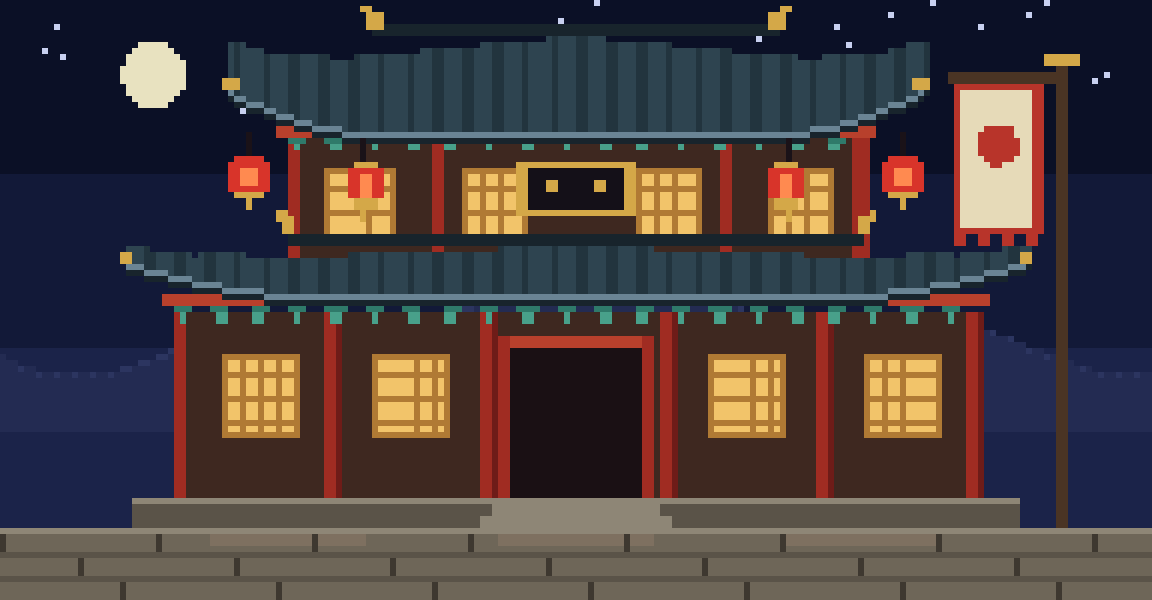
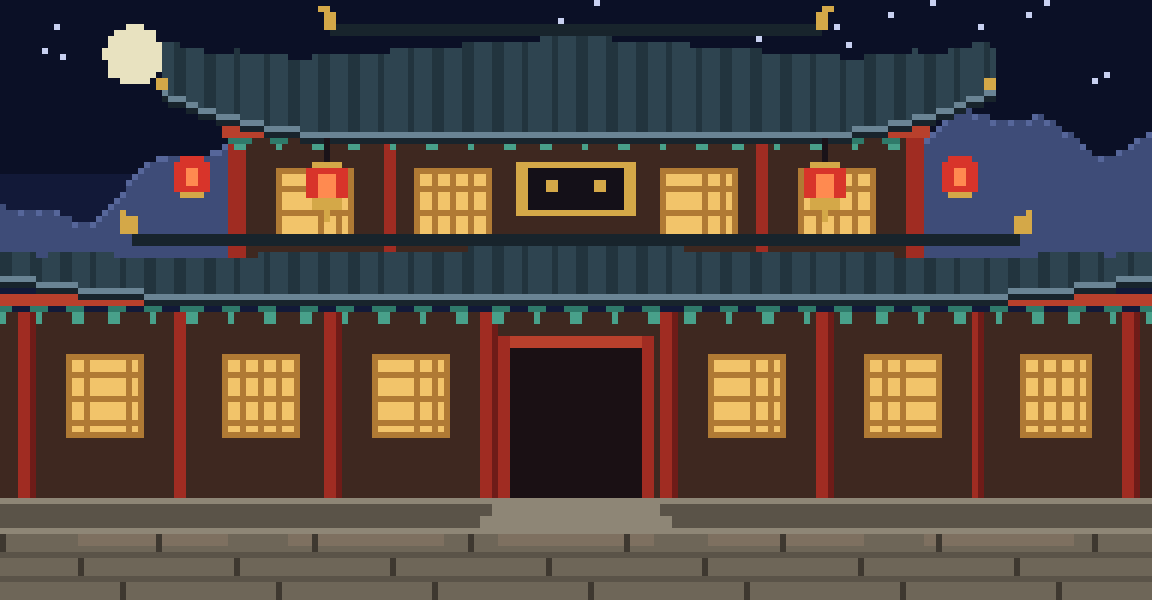
Inn stage: full-width hall, central upper pavilion, visible moonlit mountains, no flag

diff --git a/tools/gen_stages.py b/tools/gen_stages.py
@@ -280,12 +280,12 @@ def floor_dirt(s):
 
 
 def inn(W, H):
-    """Wuxia inn (kezhan) at night: double sweeping roofs, red pillars, wine flag, lanterns under the eaves."""
+    """Wuxia inn (kezhan) at night, seen up close: wide hall, central upper pavilion, lanterns under the eaves."""
     import random
     rnd = random.Random(3)
     s = Stage(W, H, {
         "0": "0B1026", "1": "121938", "2": "1B2349", "*": "C8D0F0", "m": "E8E2C0",
-        "M": "232B52", "N": "2C3560",                                         # distant mountains
+        "M": "3E4C78", "N": "56669A",                                         # distant mountains (lit by the moon)
         "r": "2E4450", "R": "22343E", "x": "6A8494", "z": "18242C",           # roof tiles / grooves / eave edge / ridge
         "g": "D4A848",                                                        # gold ornaments
         "p": "A02C22", "P": "6E1C18", "b": "B8402C",                          # red pillars / shadow / beams
@@ -294,14 +294,13 @@ def inn(W, H):
         "o": "1A1014",                                                        # doorway
         "h": "141018",                                                        # plaque
         "l": "D8342A", "L": "FF8A50", "t": "1A1218",                          # lanterns / glow / cord
-        "f": "E6DAB8", "F": "B8342A", "k": "4A3424",                          # wine flag cloth / border / pole
         "s": "6E6658", "S": "5A5348", "e": "8E8676", "d": "3E3830", "u": "7E7060",   # stone
     })
     s.sky("012", 0, s.ground)
     for _ in range(36):
         s.put(rnd.randrange(W), rnd.randrange(s.Y(14)), "*")
-    s.disc(16, 8, 3.5, "m")
-    s.ridge("M", "N", 34, [(4, 0.06, 1.0), (2, 0.17, 0.3)], bottom=s.Y(46))
+    s.disc(14, 6, 3.2, "m")
+    s.ridge("M", "N", 17, [(4, 0.09, 1.0), (2.5, 0.23, 0.3), (1, 0.6, 2.0)], bottom=s.Y(30))
 
     cx = 60
     def roof(half, top, height, overhang, lift):
@@ -349,36 +348,36 @@ def inn(W, H):
             k += 2.4
 
     # ---- upper storey
-    s.rect(cx - 30, 15, 60, 13, "w")
-    for px in (-30, -15, 15, 29):
+    s.rect(cx - 36, 15, 72, 13, "w")
+    for px in (-36, -20, 18.6, 34.6):
         s.rect(cx + px, 15, 1.4, 13, "p")
-    for wx in (-26, -12, 6, 20):
-        lattice(cx + wx, 18, 7, 8)
+    for wx in (-31, -17, 9, 23):
+        lattice(cx + wx, 18, 8, 8)
     s.rect(cx - 6, 17, 12, 6, "g")                            # plaque
     s.rect(cx - 5.2, 17.8, 10.4, 4.4, "h")
     s.rect(cx - 3.2, 19.4, 1.4, 1.2, "g"); s.rect(cx + 1.8, 19.4, 1.4, 1.2, "g")
-    brackets(cx - 31, cx + 31, 13.5)
-    roof(28, 4, 10, 8, 4.5)
+    brackets(cx - 37, cx + 37, 13.5)
+    roof(34, 4, 10, 9, 4.5)
     # ---- lower storey (taller, wider)
-    s.rect(cx - 42, 33, 84, DGROUND - 33 - 3, "w")
-    for px in (-42, -26, -10, 9, 25, 40.6):
+    s.rect(-2, 33, DW + 4, DGROUND - 33 - 3, "w")
+    for px in (-58, -42, -26, -10, 9, 25, 41, 57):
         s.rect(cx + px, 33, 1.6, DGROUND - 36, "p")
         s.rect(cx + px + 1.1, 33, 0.5, DGROUND - 36, "P")
-    for wx in (-37, -21, 14, 30):
+    for wx in (-53, -37, -21, 14, 30, 46):
         lattice(cx + wx, 38, 8, 9)
     s.rect(cx - 7, 37, 14, DGROUND - 40, "o")                 # doorway
     s.rect(cx - 8, 36, 16, 1.2, "b")
     s.rect(cx - 8, 36, 1.2, DGROUND - 39, "p"); s.rect(cx + 6.8, 36, 1.2, DGROUND - 39, "p")
-    brackets(cx - 43, cx + 43, 31.5)
-    roof(40, 26, 5.5, 7, 3.5)
+    brackets(-2, DW + 2, 31.5)
+    roof(62, 26, 5.5, 4, 3.5)
     # stone platform + steps
-    s.rect(cx - 46, DGROUND - 3, 92, 3, "S")
-    s.rect(cx - 46, DGROUND - 3, 92, 0.8, "e")
+    s.rect(-2, DGROUND - 3, DW + 4, 3, "S")
+    s.rect(-2, DGROUND - 3, DW + 4, 0.8, "e")
     s.rect(cx - 9, DGROUND - 2, 18, 1, "e")
     s.rect(cx - 10, DGROUND - 1, 20, 1, "e")
 
     # lanterns hanging under the upper eaves (well above head height)
-    for lx in (cx - 34, cx - 22, cx + 22, cx + 34):
+    for lx in (cx - 40, cx - 26, cx + 26, cx + 40):
         top = 14 if abs(lx - cx) > 30 else 15
         s.rect(lx - 0.25, top, 0.5, 2.5, "t")
         y0 = top + 2.5
@@ -389,19 +388,8 @@ def inn(W, H):
         s.rect(lx - 1.4, y0 + 3.9, 2.8, 0.7, "g")
         s.rect(lx - 0.3, y0 + 4.6, 0.6, 1.6, "g")
 
-    # wine flag on a pole (right)
-    fx = 110
-    s.rect(fx, 6, 1.2, DGROUND - 6, "k")
-    s.rect(fx - 1, 6, 3.2, 1, "g")
-    s.rect(fx - 11, 8, 11, 1, "k")                            # cross arm
-    s.rect(fx - 10.5, 9, 9, 16, "F")
-    s.rect(fx - 9.8, 9.7, 7.6, 14.6, "f")
-    s.disc(fx - 6, 15.5, 2.2, "F")
-    for k in range(4):                                         # ragged bottom edge
-        s.rect(fx - 10.5 + k * 2.4, 25, 1.2, 1.2, "F")
-
     floor(s, "s", "S", "e", "d")
-    for lx in (cx - 30, cx, cx + 30):                         # warm light on the courtyard
+    for lx in (cx - 44, cx - 22, cx, cx + 22, cx + 44):       # warm light on the courtyard
         for y in range(s.ground + 1, min(s.H, s.ground + 3)):
             for x in range(s.X(lx - 8), s.X(lx + 8)):
                 if 0 <= x < W and s.g[y][x] == "s":
